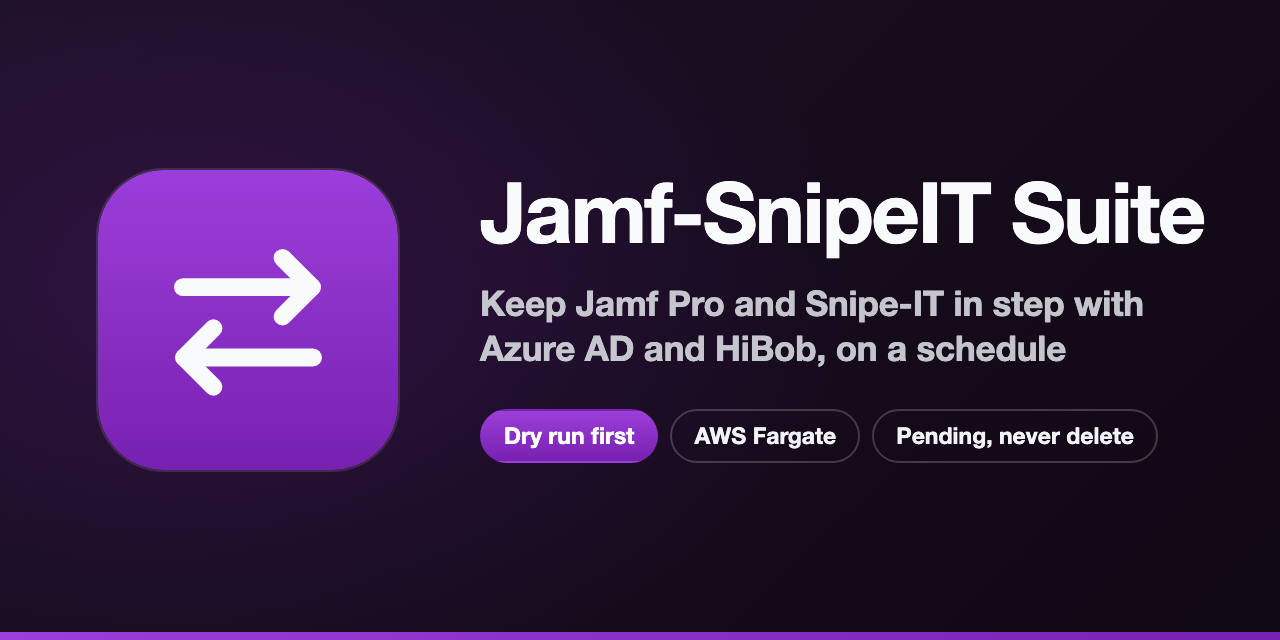
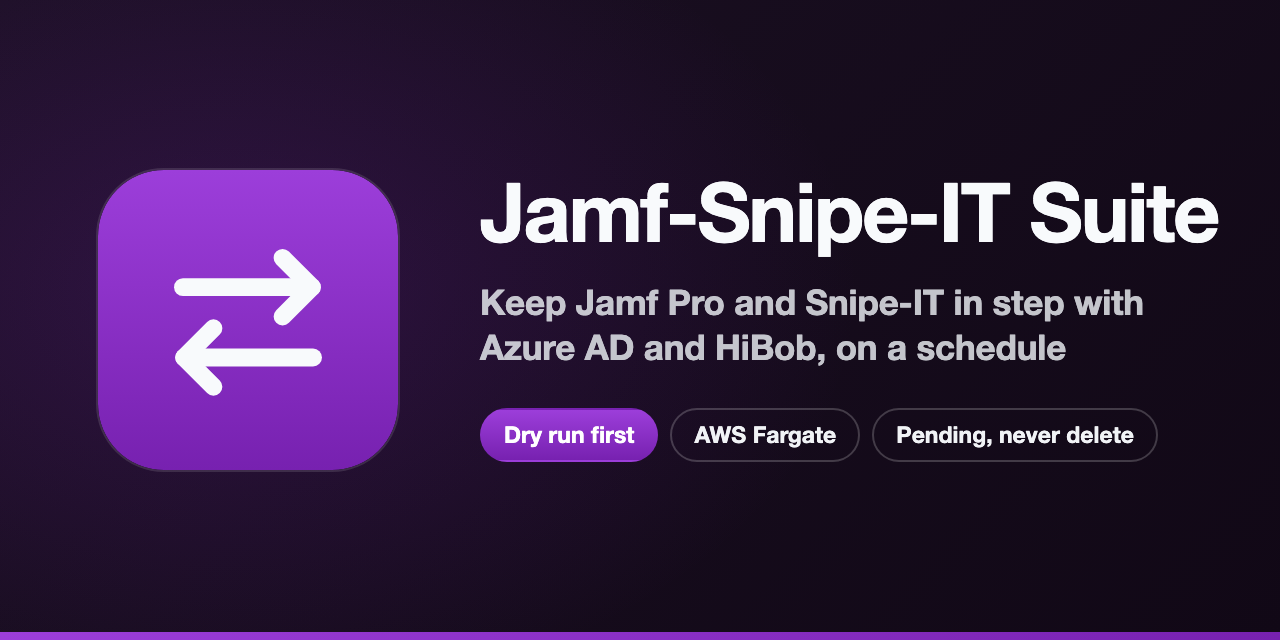
docs: use the display name Jamf-Snipe-IT Suite throughout (#26)

diff --git a/src/main.py b/src/main.py
@@ -1,6 +1,6 @@
 #!/usr/bin/env python3
 """
-Jamf-SnipeIT Suite - Main CLI Entry Point
+Jamf-Snipe-IT Suite - Main CLI Entry Point
 Unified tool for asset management between Jamf Pro, Snipe-IT, and Azure AD.
 """
 import argparse
@@ -86,7 +86,7 @@ def print_banner():
     """Print application banner."""
     banner = """
 ╔═══════════════════════════════════════════════════════════╗
-║                   Jamf-SnipeIT Suite                      ║
+║                   Jamf-Snipe-IT Suite                     ║
 ║     Unified Asset Management & Synchronization Tool       ║
 ╚═══════════════════════════════════════════════════════════╝
     """
@@ -627,7 +627,7 @@ def interactive_menu(config: Config):
     """Interactive menu for selecting modules to run."""
     while True:
         print("\n" + "="*60)
-        print("  Jamf-SnipeIT Suite - Interactive Menu")
+        print("  Jamf-Snipe-IT Suite - Interactive Menu")
         print("="*60)
         print("\n  Available Modules:")
         print("  1. Leavers - Mark assets of disabled Azure users")
@@ -704,7 +704,7 @@ def interactive_menu(config: Config):
 def main():
     """Main entry point."""
     parser = argparse.ArgumentParser(
-        description='Jamf-SnipeIT Suite - Unified Asset Management Tool',
+        description='Jamf-Snipe-IT Suite - Unified Asset Management Tool',
         formatter_class=argparse.RawDescriptionHelpFormatter,
         epilog="""
 Examples:

diff --git a/src/clients/slack.py b/src/clients/slack.py
@@ -1,5 +1,5 @@
 """
-Jamf-SnipeIT Suite - Slack Notification Client
+Jamf-Snipe-IT Suite - Slack Notification Client
 Sends messages to a Slack channel via the Web API (chat.postMessage).
 Requires a Bot OAuth token (xoxb-...) with chat:write scope.
 """
@@ -78,7 +78,7 @@ class SlackClient:
             ]},
             {"type": "section", "text": {"type": "mrkdwn", "text": f"*Error:*\n```{error[:1500]}```"}},
             {"type": "context", "elements": [
-                {"type": "mrkdwn", "text": ":robot_face:  _Sent by Jamf-SnipeIT Suite_"}
+                {"type": "mrkdwn", "text": ":robot_face:  _Sent by Jamf-Snipe-IT Suite_"}
             ]},
         ]
         return self._post(text, blocks)
@@ -142,7 +142,7 @@ class SlackClient:
                 })
 
         blocks.append({"type": "context", "elements": [
-            {"type": "mrkdwn", "text": ":robot_face:  _Sent by Jamf-SnipeIT Suite_"}
+            {"type": "mrkdwn", "text": ":robot_face:  _Sent by Jamf-Snipe-IT Suite_"}
         ]})
 
         return self._post(f"Run completed with {total_errors} error(s)", blocks)
@@ -247,7 +247,7 @@ class SlackClient:
 
         blocks.append({"type": "divider"})
         blocks.append({"type": "context", "elements": [
-            {"type": "mrkdwn", "text": ":robot_face:  _Sent by Jamf-SnipeIT Suite_"}
+            {"type": "mrkdwn", "text": ":robot_face:  _Sent by Jamf-Snipe-IT Suite_"}
         ]})
 
         return self.post_to_channel(channel_id, f"{title} ({len(items)} items)", blocks)

diff --git a/src/scheduler.py b/src/scheduler.py
@@ -1,6 +1,6 @@
 #!/usr/bin/env python3
 """
-Jamf-SnipeIT Suite - Scheduler
+Jamf-Snipe-IT Suite - Scheduler
 APScheduler-based task scheduler for automated module execution.
 """
 import argparse
@@ -218,7 +218,7 @@ def create_scheduler(config: Config, dry_run: bool = False) -> Any:
 def main():
     """Main entry point for scheduler."""
     parser = argparse.ArgumentParser(
-        description='Jamf-SnipeIT Suite - Scheduled Task Runner'
+        description='Jamf-Snipe-IT Suite - Scheduled Task Runner'
     )
     parser.add_argument('--config', '-c', default='config/config.yaml',
                         help='Path to configuration file')
@@ -242,7 +242,7 @@ def main():
     
     print("""
 ╔═══════════════════════════════════════════════════════════╗
-║            Jamf-SnipeIT Suite - Scheduler                 ║
+║            Jamf-Snipe-IT Suite - Scheduler                ║
 ║              Automated Task Execution                     ║
 ╚═══════════════════════════════════════════════════════════╝
     """)

diff --git a/src/docker_scheduler.py b/src/docker_scheduler.py
@@ -1,6 +1,6 @@
 #!/usr/bin/env python3
 """
-Jamf-SnipeIT Suite - Docker Scheduler
+Jamf-Snipe-IT Suite - Docker Scheduler
 Main entry point for Docker container with:
 - Pre-flight API connectivity check
 - Per-module execution metrics and Slack summaries
@@ -90,7 +90,7 @@ def setup_logging(level: str = "INFO", log_file: Optional[str] = None):
 
 def print_banner():
     """Print startup banner."""
-    print("\n  Jamf-SnipeIT Suite — Docker Mode")
+    print("\n  Jamf-Snipe-IT Suite — Docker Mode")
     print("  Type NOW for on-demand menu | Ctrl+C to stop\n")
 
 
@@ -847,7 +847,7 @@ def signal_handler(signum, frame):
 def main():
     global config, running, slack, sync_state, _config_mtime
     
-    parser = argparse.ArgumentParser(description='Jamf-SnipeIT Suite - Docker Scheduler')
+    parser = argparse.ArgumentParser(description='Jamf-Snipe-IT Suite - Docker Scheduler')
     parser.add_argument('--config', '-c', default='/app/config/config.yaml',
                         help='Path to configuration file')
     parser.add_argument('--log-file', '-l', default='/app/logs/scheduler.log',

diff --git a/src/core/config.py b/src/core/config.py
@@ -1,5 +1,5 @@
 """
-Jamf-SnipeIT Suite - Configuration Loader
+Jamf-Snipe-IT Suite - Configuration Loader
 Unified configuration management for all modules.
 Supports environment variable substitution: ${ENV_VAR} or ${ENV_VAR:-default}
 """
@@ -118,7 +118,7 @@ class ConfigurationError(Exception):
 
 class Config:
     """
-    Unified configuration manager for Jamf-SnipeIT Suite.
+    Unified configuration manager for Jamf-Snipe-IT Suite.
     Loads configuration from YAML file and provides typed access.
     """
     

diff --git a/src/modules/maintenance/ai_audit.py b/src/modules/maintenance/ai_audit.py
@@ -465,7 +465,7 @@ Do NOT include any explanation outside the JSON."""
 
         blocks.append({"type": "divider"})
         blocks.append({"type": "context", "elements": [
-            {"type": "mrkdwn", "text": f":robot_face:  _AI Audit | {datetime.now().strftime('%Y-%m-%d %H:%M')} | Jamf-SnipeIT Suite_"}
+            {"type": "mrkdwn", "text": f":robot_face:  _AI Audit | {datetime.now().strftime('%Y-%m-%d %H:%M')} | Jamf-Snipe-IT Suite_"}
         ]})
 
         self.slack.post_to_channel(

diff --git a/tools/gen_diagram.py b/tools/gen_diagram.py
@@ -220,7 +220,7 @@ class Canvas:
         )
 
 # ── the diagrams ──────────────────────────────────────────────────────────
-# Jamf-SnipeIT Suite: one Fargate task definition, fired by five EventBridge
+# Jamf-Snipe-IT Suite: one Fargate task definition, fired by five EventBridge
 # rules, reconciling Jamf Pro and Snipe-IT against Azure AD and HiBob.
 
 W, H = 268, 108

diff --git a/src/modules/maintenance/monthly_digest.py b/src/modules/maintenance/monthly_digest.py
@@ -191,7 +191,7 @@ class MonthlyDigestModule:
             "elements": [
                 {
                     "type": "mrkdwn",
-                    "text": f":robot_face:  _Monthly Digest | {datetime.now().strftime('%Y-%m-%d %H:%M')} | Jamf-SnipeIT Suite_",
+                    "text": f":robot_face:  _Monthly Digest | {datetime.now().strftime('%Y-%m-%d %H:%M')} | Jamf-Snipe-IT Suite_",
                 }
             ],
         })

diff --git a/src/modules/sync/snipe_to_jamf.py b/src/modules/sync/snipe_to_jamf.py
@@ -1,5 +1,5 @@
 """
-Jamf-SnipeIT Suite - Snipe-IT to Jamf Sync Module
+Jamf-Snipe-IT Suite - Snipe-IT to Jamf Sync Module
 Writes the Snipe-IT asset ID back to each Jamf computer as an Extension Attribute.
 
 IMPORTANT: Jamf is the source of truth for user identity (username, full name,

diff --git a/src/modules/maintenance/username_standardize.py b/src/modules/maintenance/username_standardize.py
@@ -1,5 +1,5 @@
 """
-Jamf-SnipeIT Suite - Username Standardization Module
+Jamf-Snipe-IT Suite - Username Standardization Module
 Converts all email-style usernames (user@example.com) to plain format (user.name).
 One-time migration module, safe to re-run (idempotent).
 """

diff --git a/src/modules/lifecycle/user_enrichment.py b/src/modules/lifecycle/user_enrichment.py
@@ -1,5 +1,5 @@
 """
-Jamf-SnipeIT Suite - User Enrichment Module
+Jamf-Snipe-IT Suite - User Enrichment Module
 Enriches Snipe-IT users with department, company, and jobtitle from Azure AD.
 Runs as part of the regular pipeline (after Azure Starters).
 """

diff --git a/src/modules/sync/correction.py b/src/modules/sync/correction.py
@@ -1,5 +1,5 @@
 """
-Jamf-SnipeIT Suite - Self-Healing Correction Module
+Jamf-Snipe-IT Suite - Self-Healing Correction Module
 Detects and fixes wrong matches/assignments from previous runs.
 
 Runs BEFORE User Match on each execution to:
